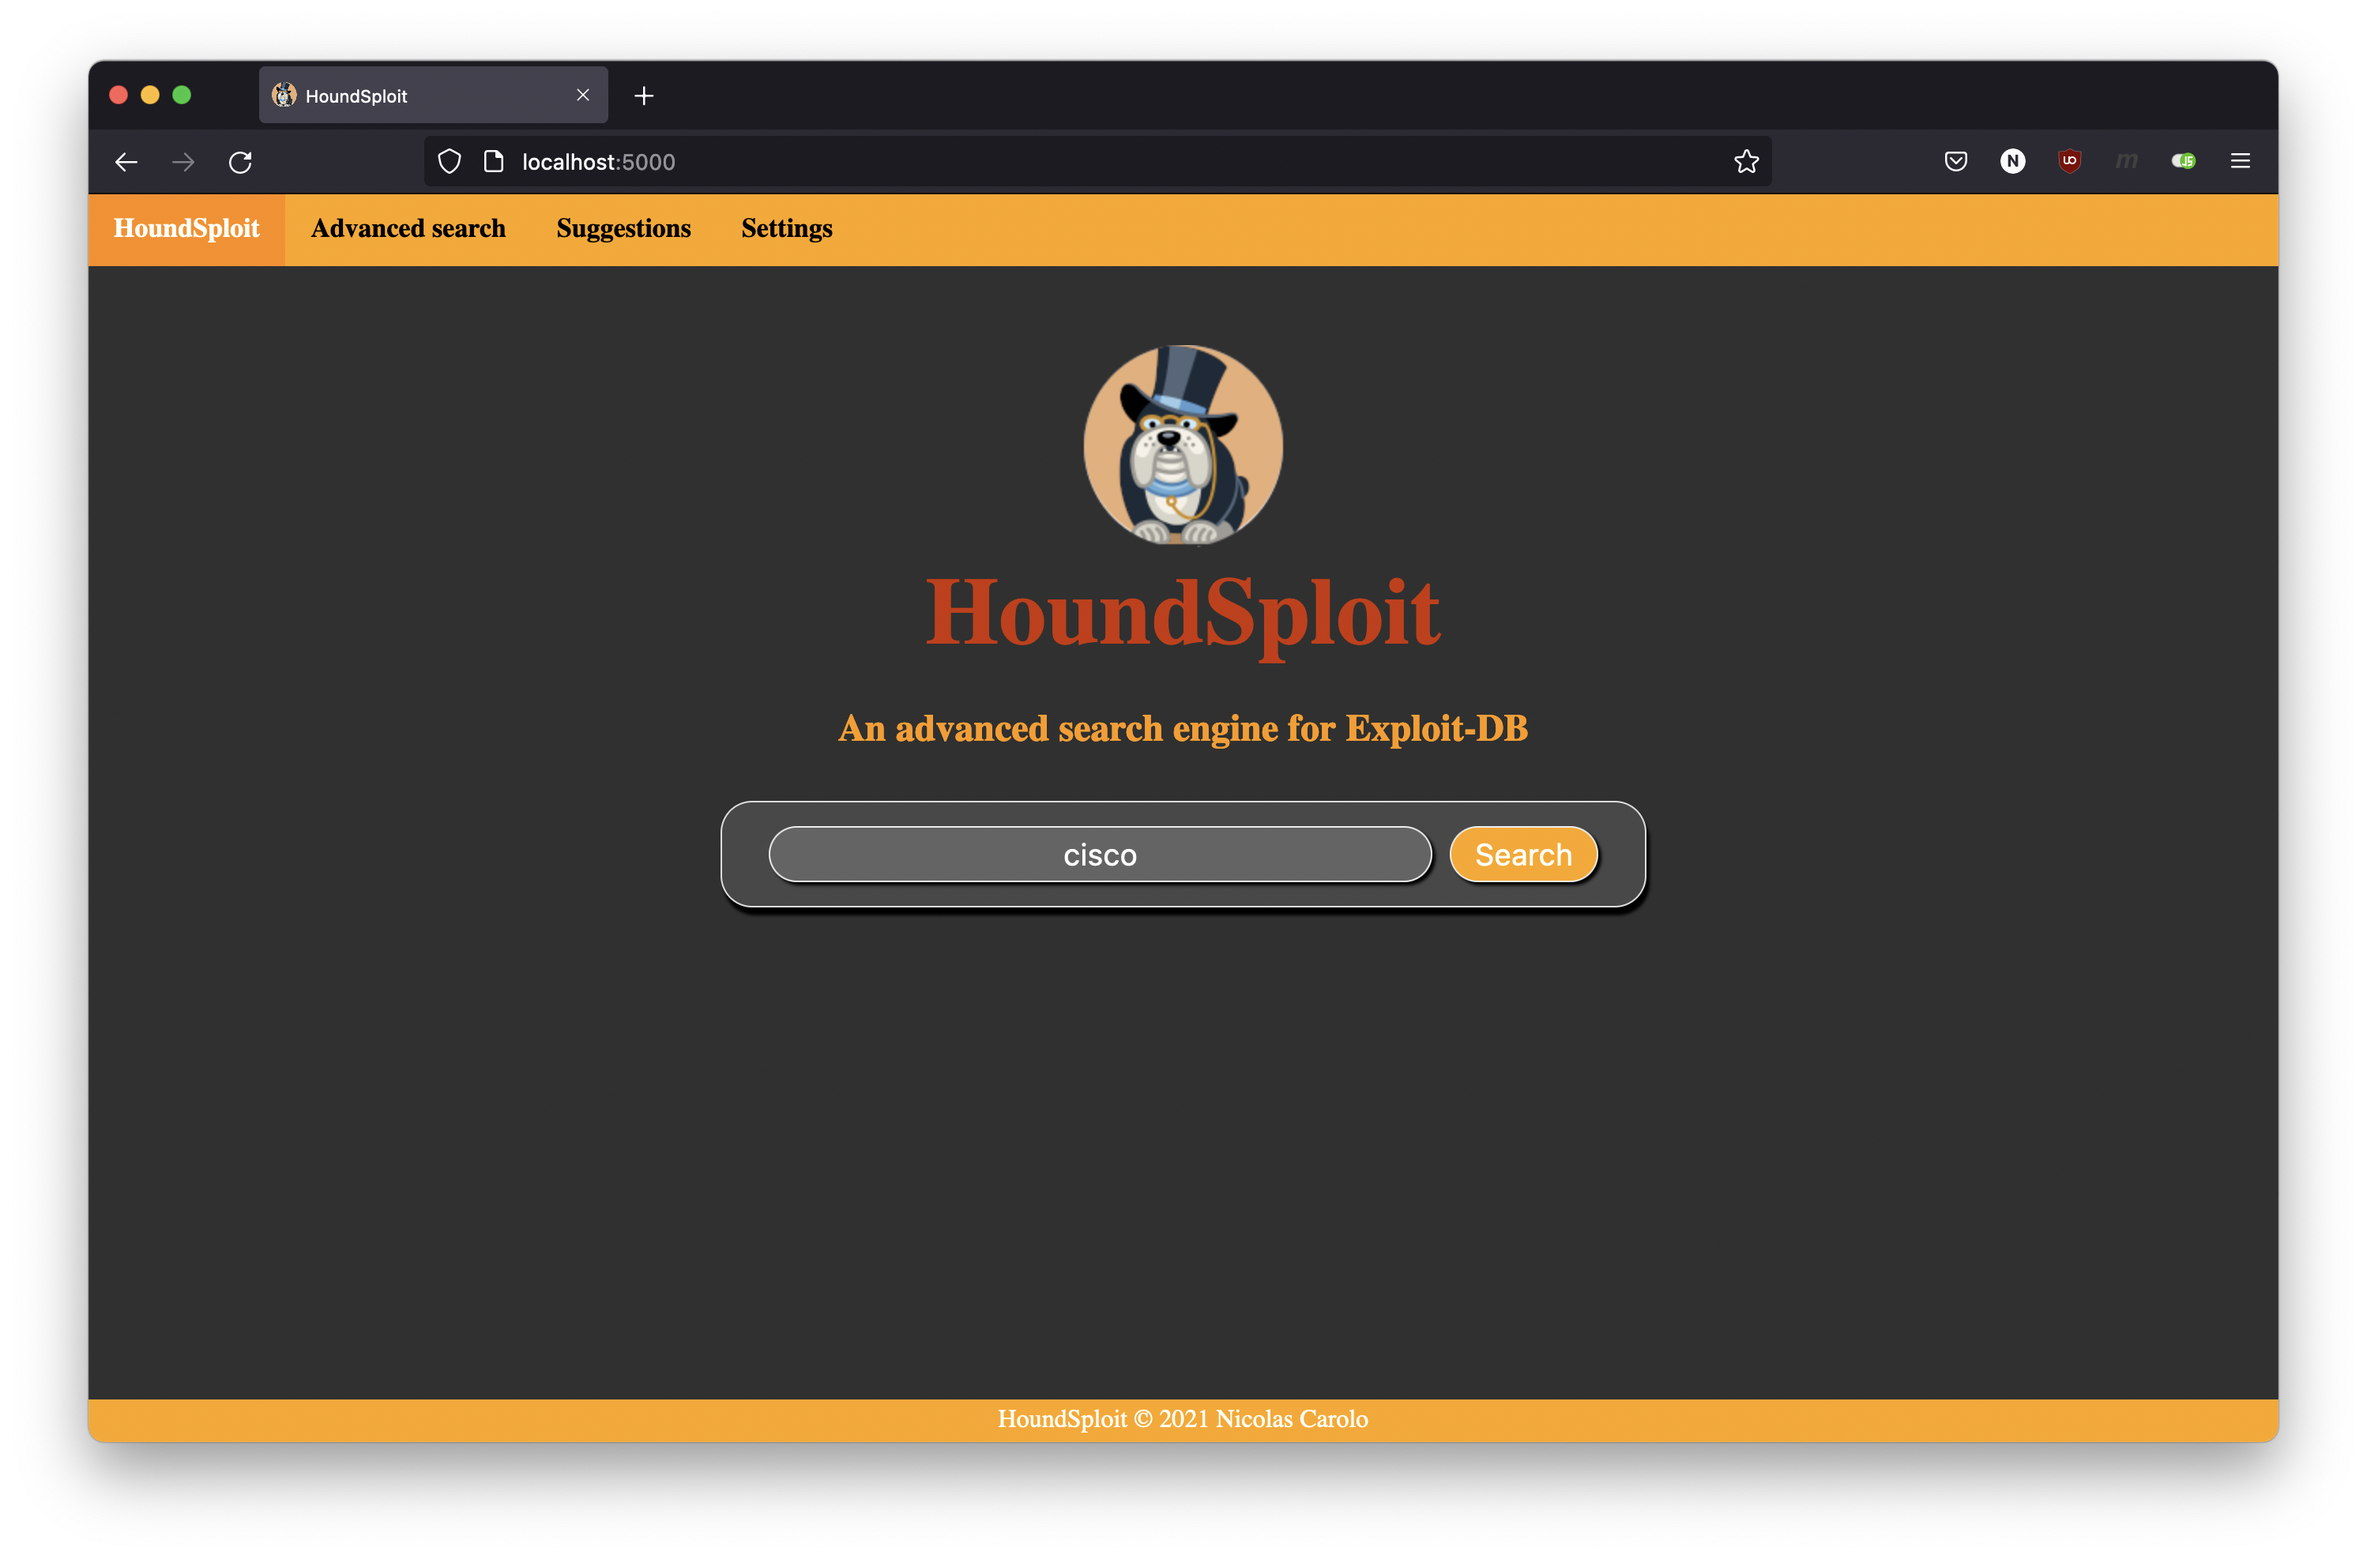
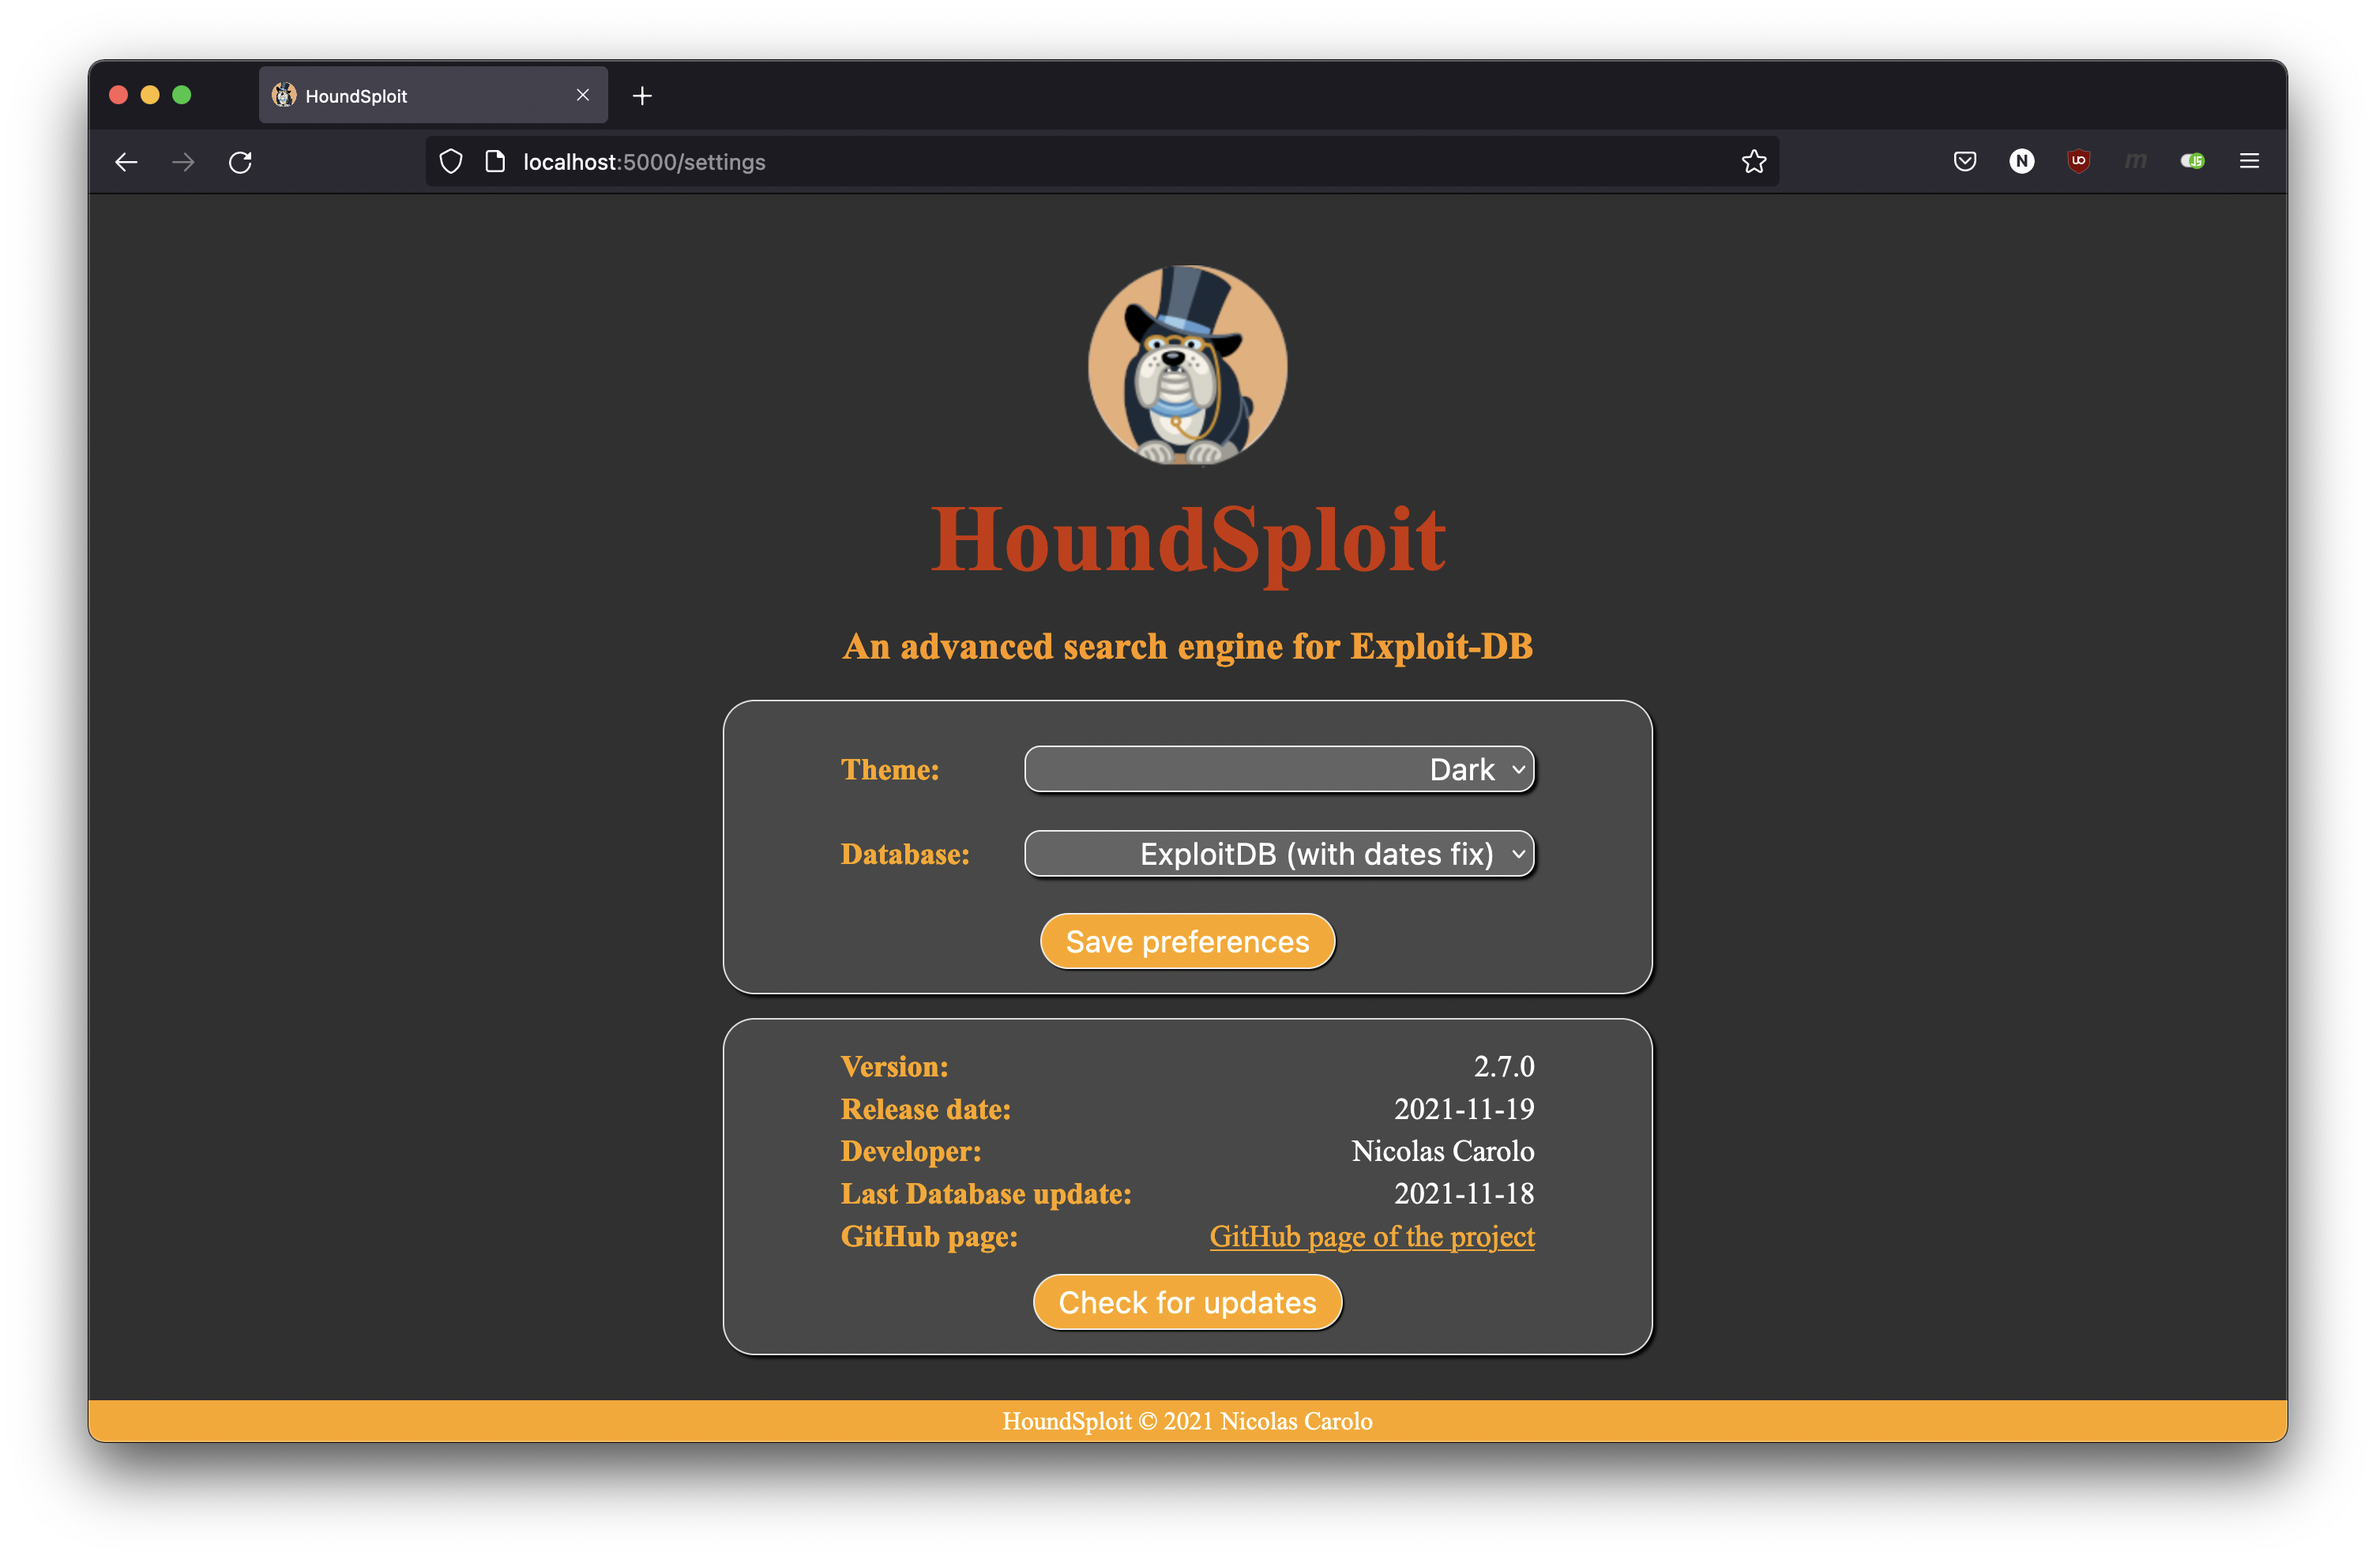
HoundSploit 2.7.0 page updated

Changed region(s): [[0.031, 0.0618, 0.9933, 0.958]]

diff --git a/projects/houndsploit/index.html b/projects/houndsploit/index.html
@@ -7,10 +7,10 @@
 <meta name="author" content="">
 <meta name="description" content="Author: Nicolas Carolo nicolascarolo.dev@gmail.com
 Copyright: © 2021, Nicolas Carolo.
-Date: 2021-10-04
-Version: 2.6.1
+Date: 2021-11-19
+Version: 2.7.0
 PURPOSE HoundSploit is an advanced search engine for Exploit-DB developed in Python using Flask as micro web framework, born with the aim of showing the user the most accurate search results.
-Features  Effective version number filtering Advanced filtering Sort by date and description Fast search Search suggestions with customization Syntax highlighting of the source code of exploits and shellcodes Downloading of the source code of exploits and shellcodes Highlighting of searched words in search results Bookmarks Check for updates (both for software and database)  News in HoundSploit 2  Flask instead of Django SQLAlchemy instead of Django ORM The kernel of the search engine is the same used in hsploit, which is the CLI version of HoundSploit Dark and Light themes  Effective version number filtering examples Example I 11 exploits and 0 shellcodes found for &amp;ldquo;WordPress Core 2." />
+Features  Effective version number filtering Advanced filtering Sort by date and description Fast search Search suggestions with customization Syntax highlighting of the source code of exploits and shellcodes Downloading of the source code of exploits and shellcodes Highlighting of searched words in search results Bookmarks Fix of exploit and shellcode dates Check for updates (both for software and database)  News in HoundSploit 2  Flask instead of Django SQLAlchemy instead of Django ORM The kernel of the search engine is the same used in hsploit, which is the CLI version of HoundSploit Dark and Light themes  Effective version number filtering examples Example I 11 exploits and 0 shellcodes found for &amp;ldquo;WordPress Core 2." />
 <meta name="keywords" content="" />
 <meta name="robots" content="noodp" />
 <meta name="theme-color" content="" />
@@ -42,28 +42,28 @@ Features  Effective version number filtering Advanced filtering Sort by date and
 <meta itemprop="name" content="HoundSploit">
 <meta itemprop="description" content="Author: Nicolas Carolo nicolascarolo.dev@gmail.com
 Copyright: © 2021, Nicolas Carolo.
-Date: 2021-10-04
-Version: 2.6.1
+Date: 2021-11-19
+Version: 2.7.0
 PURPOSE HoundSploit is an advanced search engine for Exploit-DB developed in Python using Flask as micro web framework, born with the aim of showing the user the most accurate search results.
-Features  Effective version number filtering Advanced filtering Sort by date and description Fast search Search suggestions with customization Syntax highlighting of the source code of exploits and shellcodes Downloading of the source code of exploits and shellcodes Highlighting of searched words in search results Bookmarks Check for updates (both for software and database)  News in HoundSploit 2  Flask instead of Django SQLAlchemy instead of Django ORM The kernel of the search engine is the same used in hsploit, which is the CLI version of HoundSploit Dark and Light themes  Effective version number filtering examples Example I 11 exploits and 0 shellcodes found for &ldquo;WordPress Core 2."><meta itemprop="datePublished" content="2021-10-04T16:30:00+02:00" />
-<meta itemprop="dateModified" content="2021-10-04T16:30:00+02:00" />
-<meta itemprop="wordCount" content="851"><meta itemprop="image" content="https://nicolascarolo.tk/"/>
+Features  Effective version number filtering Advanced filtering Sort by date and description Fast search Search suggestions with customization Syntax highlighting of the source code of exploits and shellcodes Downloading of the source code of exploits and shellcodes Highlighting of searched words in search results Bookmarks Fix of exploit and shellcode dates Check for updates (both for software and database)  News in HoundSploit 2  Flask instead of Django SQLAlchemy instead of Django ORM The kernel of the search engine is the same used in hsploit, which is the CLI version of HoundSploit Dark and Light themes  Effective version number filtering examples Example I 11 exploits and 0 shellcodes found for &ldquo;WordPress Core 2."><meta itemprop="datePublished" content="2021-11-19T16:30:00+02:00" />
+<meta itemprop="dateModified" content="2021-11-19T16:30:00+02:00" />
+<meta itemprop="wordCount" content="868"><meta itemprop="image" content="https://nicolascarolo.tk/"/>
 <meta itemprop="keywords" content="" /><meta name="twitter:card" content="summary_large_image"/>
 <meta name="twitter:image" content="https://nicolascarolo.tk/"/>
 
 <meta name="twitter:title" content="HoundSploit"/>
 <meta name="twitter:description" content="Author: Nicolas Carolo nicolascarolo.dev@gmail.com
 Copyright: © 2021, Nicolas Carolo.
-Date: 2021-10-04
-Version: 2.6.1
+Date: 2021-11-19
+Version: 2.7.0
 PURPOSE HoundSploit is an advanced search engine for Exploit-DB developed in Python using Flask as micro web framework, born with the aim of showing the user the most accurate search results.
-Features  Effective version number filtering Advanced filtering Sort by date and description Fast search Search suggestions with customization Syntax highlighting of the source code of exploits and shellcodes Downloading of the source code of exploits and shellcodes Highlighting of searched words in search results Bookmarks Check for updates (both for software and database)  News in HoundSploit 2  Flask instead of Django SQLAlchemy instead of Django ORM The kernel of the search engine is the same used in hsploit, which is the CLI version of HoundSploit Dark and Light themes  Effective version number filtering examples Example I 11 exploits and 0 shellcodes found for &ldquo;WordPress Core 2."/>
+Features  Effective version number filtering Advanced filtering Sort by date and description Fast search Search suggestions with customization Syntax highlighting of the source code of exploits and shellcodes Downloading of the source code of exploits and shellcodes Highlighting of searched words in search results Bookmarks Fix of exploit and shellcode dates Check for updates (both for software and database)  News in HoundSploit 2  Flask instead of Django SQLAlchemy instead of Django ORM The kernel of the search engine is the same used in hsploit, which is the CLI version of HoundSploit Dark and Light themes  Effective version number filtering examples Example I 11 exploits and 0 shellcodes found for &ldquo;WordPress Core 2."/>
 
 
 
 
 
-    <meta property="article:published_time" content="2021-10-04 16:30:00 &#43;0200 CEST" />
+    <meta property="article:published_time" content="2021-11-19 16:30:00 &#43;0200 &#43;0200" />
 
 
 
@@ -137,8 +137,8 @@ Features  Effective version number filtering Advanced filtering Sort by date and
                 <p><img src="/img/projects/houndsploit/icon.png" alt="HoundSploit Logo"></p>
 <p>Author: Nicolas Carolo <a href="mailto:nicolascarolo.dev@gmail.com">nicolascarolo.dev@gmail.com</a></p>
 <p>Copyright: © 2021, Nicolas Carolo.</p>
-<p>Date: 2021-10-04</p>
-<p>Version: 2.6.1</p>
+<p>Date: 2021-11-19</p>
+<p>Version: 2.7.0</p>
 <h2 id="purpose">PURPOSE</h2>
 <p><em>HoundSploit</em> is an advanced search engine for Exploit-DB developed in
 Python using Flask as micro web framework, born with the aim of showing the user
@@ -154,6 +154,7 @@ the most accurate search results.</p>
 <li>Downloading of the source code of exploits and shellcodes</li>
 <li>Highlighting of searched words in search results</li>
 <li>Bookmarks</li>
+<li>Fix of exploit and shellcode dates</li>
 <li>Check for updates (both for software and database)</li>
 </ul>
 <h4 id="news-in-houndsploit-2">News in HoundSploit 2</h4>
@@ -191,7 +192,11 @@ It is possible to add new suggestions and delete the existing suggestions.</p>
 <p>You can add exploits and shellcodes to bookmarks and filter them using the searchbox.</p>
 <p><img src="/img//projects/houndsploit/bookmarks.png" alt="Bookmarks"></p>
 <h4 id="customization">Customization</h4>
-<p>You can choose to use the Light or the Dark theme</p>
+<p>You can choose to use:</p>
+<ul>
+<li>The Light or the Dark theme</li>
+<li>The original ExploitDB database or the ExploitDB database with dates fix.</li>
+</ul>
 <p><img src="/img/projects/houndsploit/light-theme.png" alt="Light Theme"></p>
 <p><img src="/img/projects/houndsploit/dark-theme.png" alt="Dark Theme"></p>
 <h2 id="minimum-requirements">MINIMUM REQUIREMENTS</h2>

diff --git a/projects/index.html b/projects/index.html
@@ -113,7 +113,7 @@
                                 <span class="post-title">HoundSploit</span>
                                 <span class="post-day">
                                     
-                                        Oct 4
+                                        Nov 19
                                     
                                 </span>
                             </a>

diff --git a/index.html b/index.html
@@ -1,7 +1,7 @@
 <!DOCTYPE html>
 <html lang="en">
     <head>
-	<meta name="generator" content="Hugo 0.88.1" />
+	<meta name="generator" content="Hugo 0.89.4" />
         <meta charset="UTF-8">
 <meta http-equiv="X-UA-Compatible" content="ie=edge">
 <meta name="viewport" content="width=device-width, initial-scale=1, shrink-to-fit=no">
